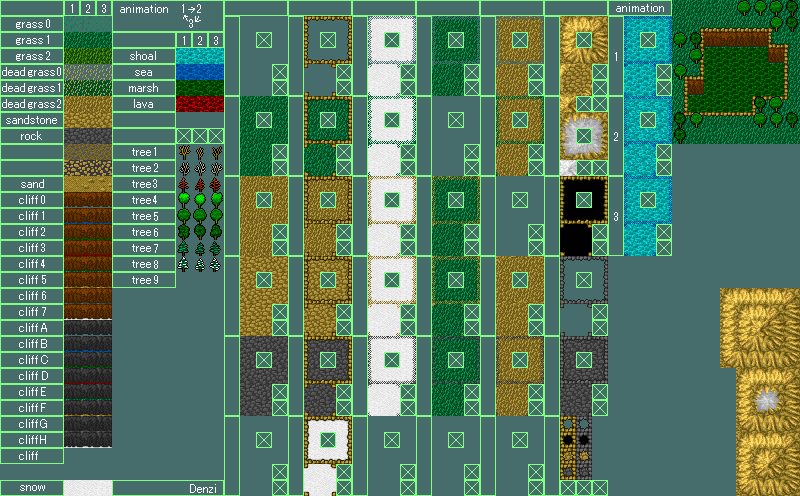
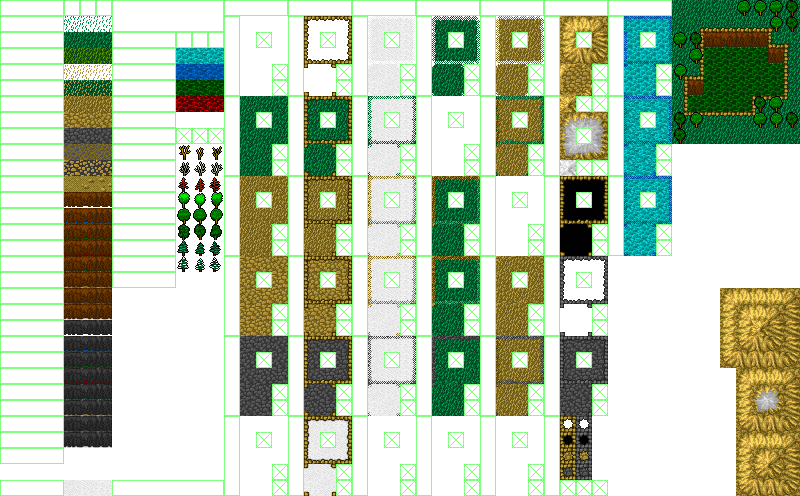
Add trees

diff --git a/app/drawWorld.js b/app/drawWorld.js
@@ -25,12 +25,12 @@ function drawTerrain(ctx, tileX, tileY, destX, destY) {
     tileSize,
     tileSize,
     destX * tileSize,
-    viewPortHeight - (destY * tileSize) ,
+    viewPortHeight - (destY * tileSize),
     tileSize,
     tileSize);
 }
 
-function drawHuman(ctx, tileX, tileY, destX, destY) {
+function drawHumanTile(ctx, tileX, tileY, destX, destY) {
   ctx.drawImage(
     humanTiles,
     tileX * tileSize,
@@ -43,8 +43,16 @@ function drawHuman(ctx, tileX, tileY, destX, destY) {
     tileSize);
 }
 
+function drawHuman(ctx, destX, destY) {
+  drawHumanTile(ctx, 1, 0, destX, destY)
+}
+
 function drawGrass(ctx, xPos, yPos) {
   drawTerrain(ctx, 5, 3, xPos, yPos);
+}
+
+function drawTree(ctx, xPos, yPos) {
+  drawTerrain(ctx, 12, 12, xPos, yPos);
 }
 
 function drawStone(ctx, xPos, yPos) {
@@ -61,6 +69,11 @@ let tileDrawer = {
   'dirt': drawDirt
 };
 
+let entityDrawer = {
+  'human': drawHuman,
+  'tree': drawTree
+};
+
 function drawMap(state, ctx) {
   let map = state.world.map;
   let tileStartX = state.input.viewX;
@@ -70,12 +83,12 @@ function drawMap(state, ctx) {
       let xTile = tileStartX + x;
       let yTile = tileStartY + y;
       let tile = map.get(List([xTile, yTile]));
-      if(tile) {
+      if (tile) {
         tileDrawer[tile.get('base').getType()](ctx, x, y);
         let entities = tile.get('entities');
         entities.forEach(entity => {
-          drawHuman(ctx, 1,0, x,y)
-        })
+          entityDrawer[entity.type](ctx,x,y);
+        });
       }
     }
   }

diff --git a/app/game/createMap.js b/app/game/createMap.js
@@ -1,4 +1,5 @@
 import { Map, List } from 'immutable';
+import {createTree} from './simulateWorld';
 
 class BaseTile {
   getType() {
@@ -28,17 +29,26 @@ function getRandomInt(min, max) {
   return Math.floor(Math.random() * (max - min)) + min;
 }
 
-function createTile() {
+function createTile(i,j) {
+  let tile = new Map({ entities: new List()});
+
   let type = getRandomInt(0, 10);
   switch (type) {
     case 0:
-      return new StoneTile();
+      tile = tile.set('base', new StoneTile());
+      break;
     case 1:
     case 2:
-      return new DirtTile();
+      tile = tile.set('base', new DirtTile());
+      break;
     default:
-      return new GrassTile()
+      tile = tile.set('base', new GrassTile());
+      if(getRandomInt(0,10) == 0 ){
+        tile = tile.set('entities', tile.get('entities').push(createTree(i,j)) )
+      }
+      break;
   }
+  return tile;
 }
 
 
@@ -47,7 +57,7 @@ export function createMap(width, height) {
   for (let i = 0; i < width; i++) {
     for (let j = 0; j < height; j++) {
       let coord = List([i, j]);
-      map = map.set(coord, Map({ base: createTile(), entities: new List() }));
+      map = map.set(coord, createTile(i,j));
     }
   }
   return map;

diff --git a/app/game/simulateWorld.js b/app/game/simulateWorld.js
@@ -1,34 +1,20 @@
-export function simulateWorld(getState){
+export function simulateWorld(getState) {
 
 }
 
-class BaseEntity{
-  constructor(_x,_y){
-    this.x = _x;
-    this.y = _y;
-    this.type = 'baseEntity';
-    this.tags =[];
-  }
-
-  getPos(){
-    return {x:this.x, y: this.y};
-  }
-
-  getType(){
-    return this.type;
-  }
-
-  getTags(){
-    return this.tags;
-  }
-}
-
-export class Colonist extends BaseEntity{
-  constructor(_x,_y){
-    super(_x,_y );
-    this.type = 'colonist'
-  }
-}
+let createEntity = (x, y, type, tags) => {
+  return {
+    pos: [x, y],
+    type,
+    tags
+  };
+};
 
 
+export let createColonist = (x, y) => {
+  return createEntity(x, y, 'human', []);
+};
 
+export let createTree = (x, y) => {
+  return createEntity(x, y, 'tree', []);
+};

diff --git a/app/reducers/world.js b/app/reducers/world.js
@@ -1,7 +1,7 @@
 import * as types from '../actions/actionTypes'
 import {createMap} from '../game/createMap';
 import {List} from 'immutable';
-import {Colonist} from '../game/simulateWorld';
+import { createColonist} from '../game/simulateWorld';
 const initialState = {
   map: null,
   width: 0,
@@ -25,7 +25,7 @@ let world = (state = initialState, action) => {
   switch (action.type) {
     case types.CREATE_MAP:
       let map = createMap(100, 100);
-      let colonist = new Colonist(5, 5);
+      let colonist = createColonist(5,5);
       map = addEntityToTile(map,colonist,5,5);
       return Object.assign({}, state, { map: map, width: 100, height: 100 });
     default:

diff --git a/app/reducers/index.js b/app/reducers/index.js
@@ -2,13 +2,11 @@ import { combineReducers } from 'redux';
 import globals from './global';
 import world from './world';
 import input from './input';
-import simulation from './simulation';
 
 const rootReducer = combineReducers({
   globals,
   world,
-  input,
-  simulation
+  input
 });
 
 export default rootReducer;
